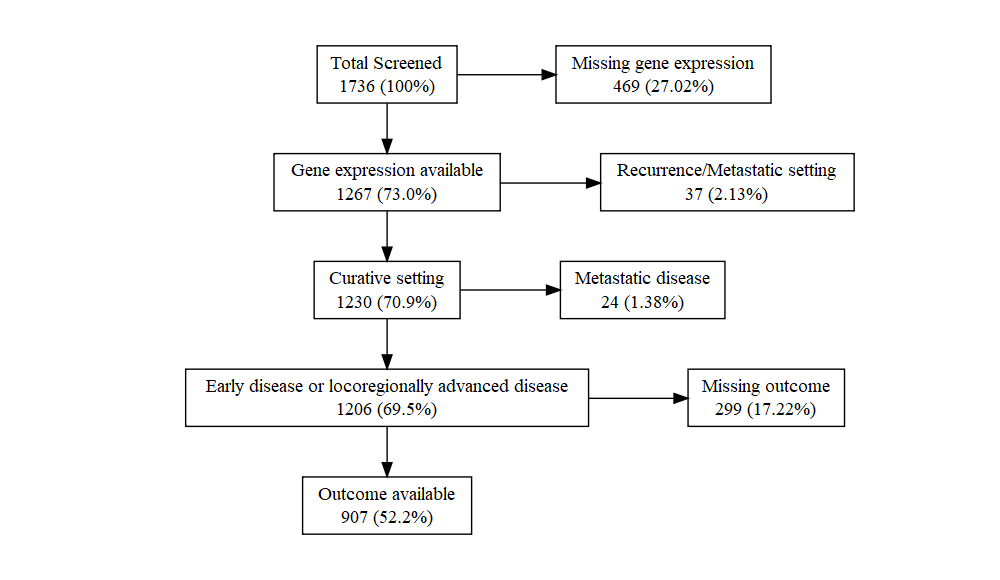
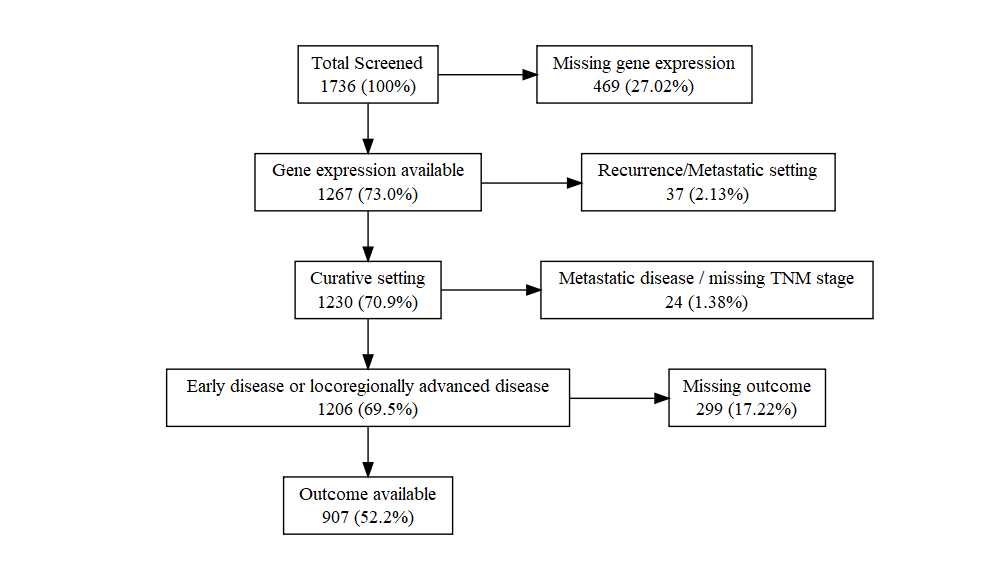
update exclusion criteria: metastatic disease / missing TNM stage

diff --git a/Exclusion_flowcharts_markdown.md b/Exclusion_flowcharts_markdown.md
@@ -18,7 +18,7 @@ overall survival** as outcome:
 ``` r
 flow_exclusions(incl_counts = c(1736, 1589, 1564, 1447), total_label = "Total Screened",
     incl_labels = c("Curative setting", "Early disease or locoregionally advanced disease",
-        "Outcome available"), excl_labels = c("Recurrence/Metastatic setting", "Metastatic disease",
+        "Outcome available"), excl_labels = c("Recurrence/Metastatic setting", "Metastatic disease / missing TNM stage",
         "Missing outcome"), percent_of_total = TRUE)
 ```
 
@@ -30,7 +30,7 @@ outcome:
 ``` r
 flow_exclusions(incl_counts = c(1736, 1589, 1564, 1251), total_label = "Total Screened",
     incl_labels = c("Curative setting", "Early disease or locoregionally advanced disease",
-        "Outcome available"), excl_labels = c("Recurrence/Metastatic setting", "Metastatic disease",
+        "Outcome available"), excl_labels = c("Recurrence/Metastatic setting", "Metastatic disease / missing TNM stage",
         "Missing outcome"), percent_of_total = TRUE)
 ```
 
@@ -43,7 +43,7 @@ use the same subset of data, but GS3 has different variable encoding.
 flow_exclusions(incl_counts = c(1736, 1267, 1230, 1206, 1097), total_label = "Total Screened",
     incl_labels = c("Gene expression available", "Curative setting", "Early disease or locoregionally advanced disease",
         "Outcome available"), excl_labels = c("Missing gene expression", "Recurrence/Metastatic setting",
-        "Metastatic disease", "Missing outcome"), percent_of_total = TRUE)
+        "Metastatic disease / missing TNM stage", "Missing outcome"), percent_of_total = TRUE)
 ```
 
 ![](Exclusion_flowcharts_markdown_files/figure-gfm/GS1%20GS2%20GS3%20OS-1.png)<!-- -->
@@ -58,7 +58,7 @@ encoding.
 flow_exclusions(incl_counts = c(1736, 1267, 1230, 1206, 907), total_label = "Total Screened",
     incl_labels = c("Gene expression available", "Curative setting", "Early disease or locoregionally advanced disease",
         "Outcome available"), excl_labels = c("Missing gene expression", "Recurrence/Metastatic setting",
-        "Metastatic disease", "Missing outcome"), percent_of_total = TRUE)
+        "Metastatic disease / missing TNM stage", "Missing outcome"), percent_of_total = TRUE)
 ```
 
 ![](Exclusion_flowcharts_markdown_files/figure-gfm/GS1%20GS2%20GS3%20DFS-1.png)<!-- -->
